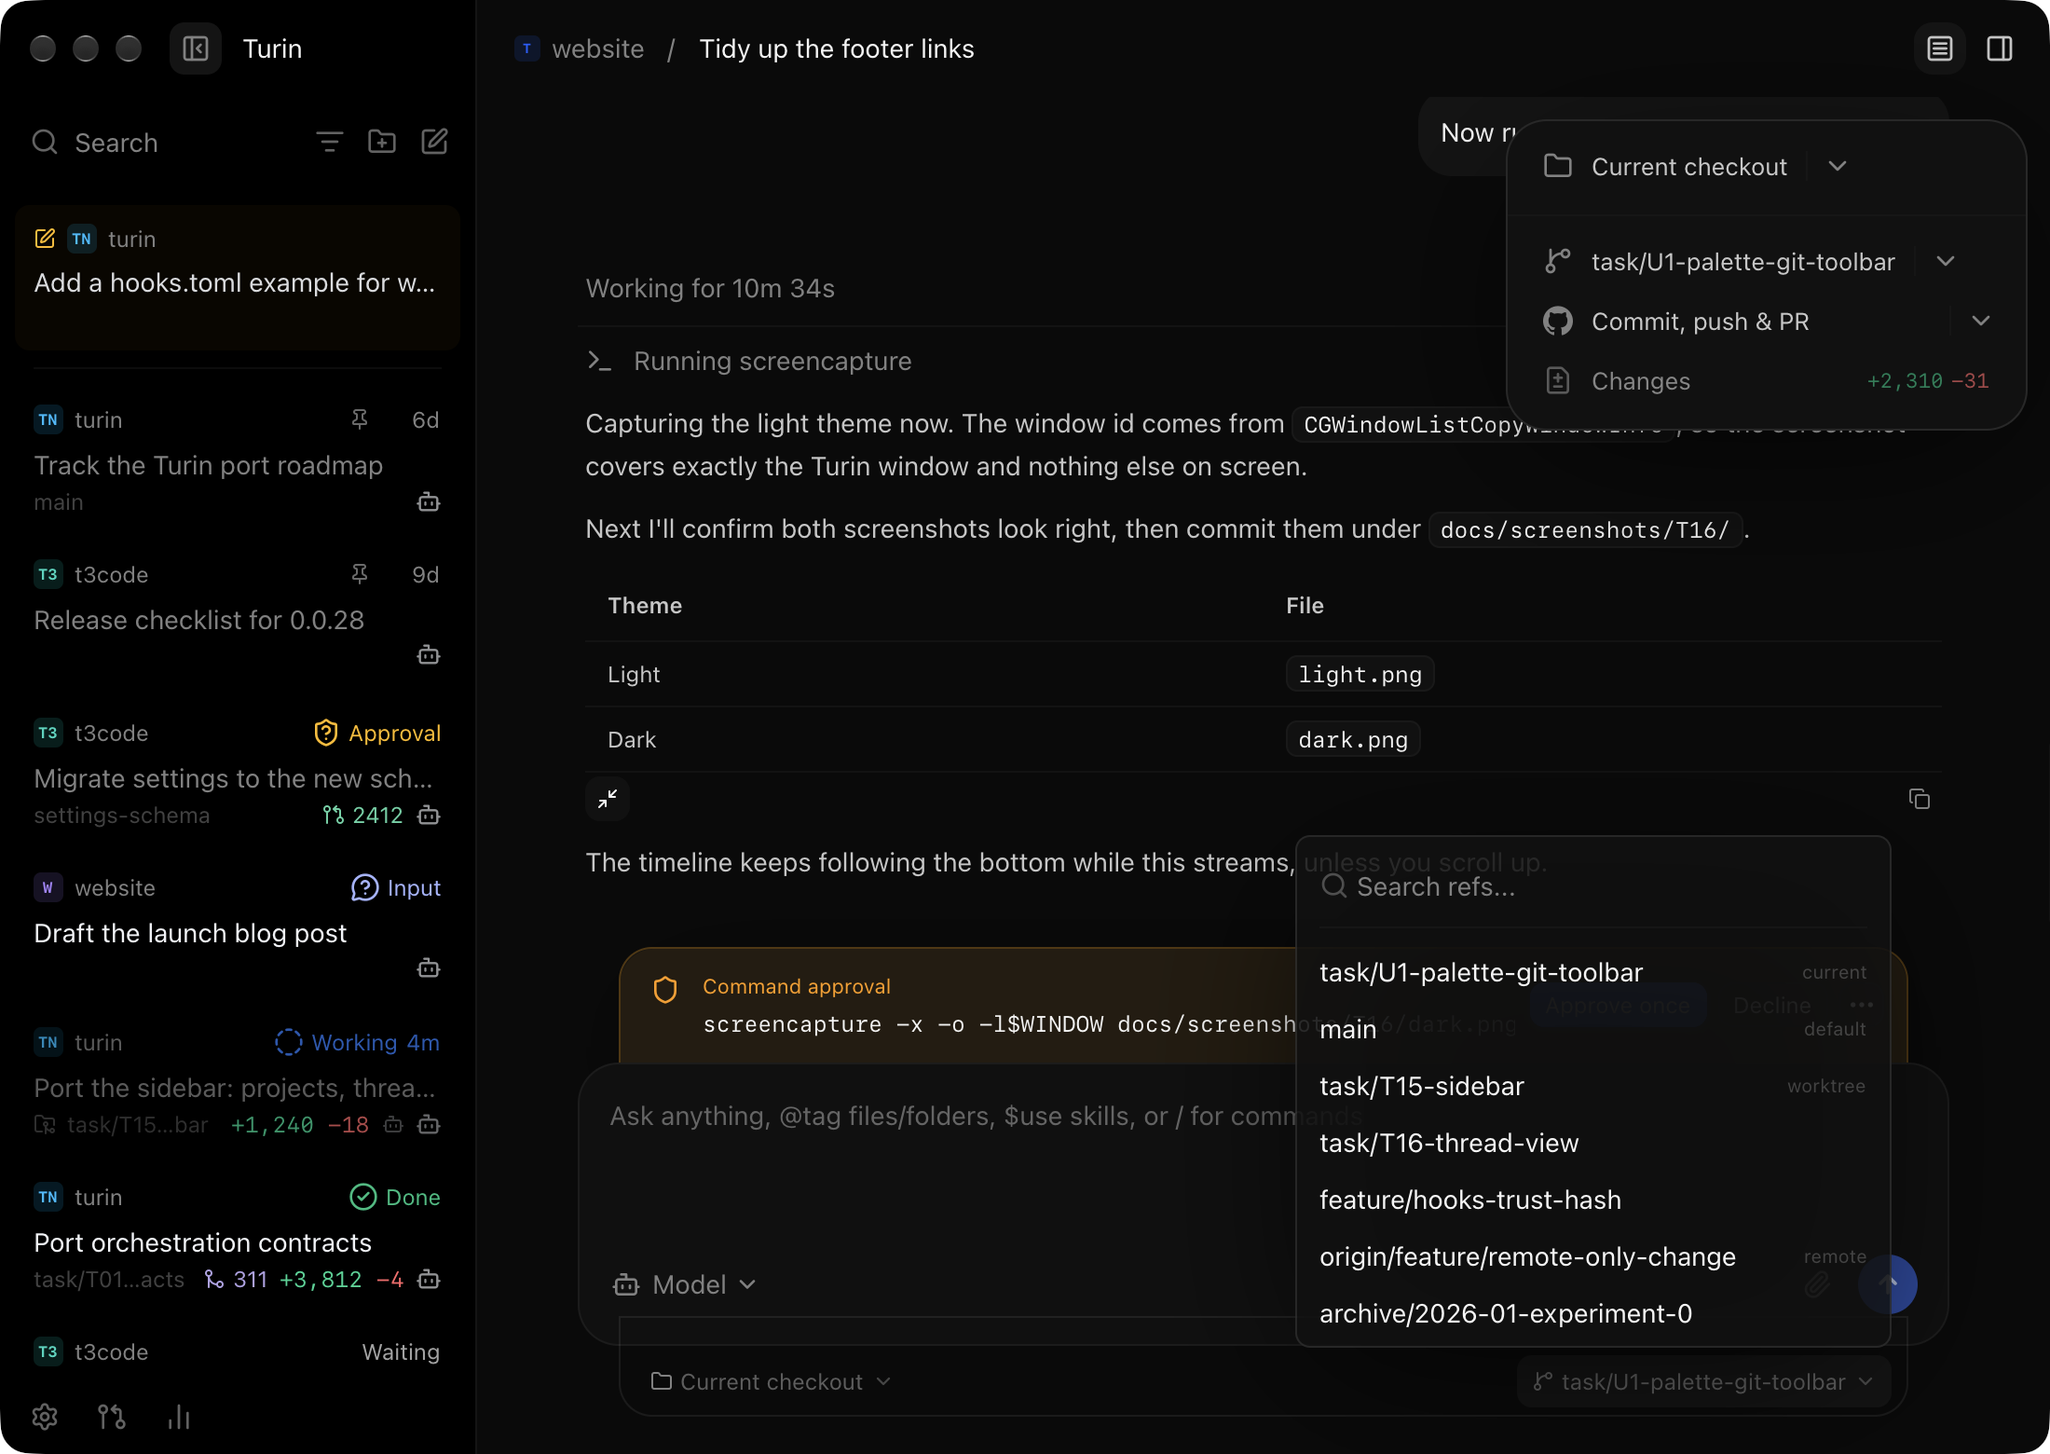
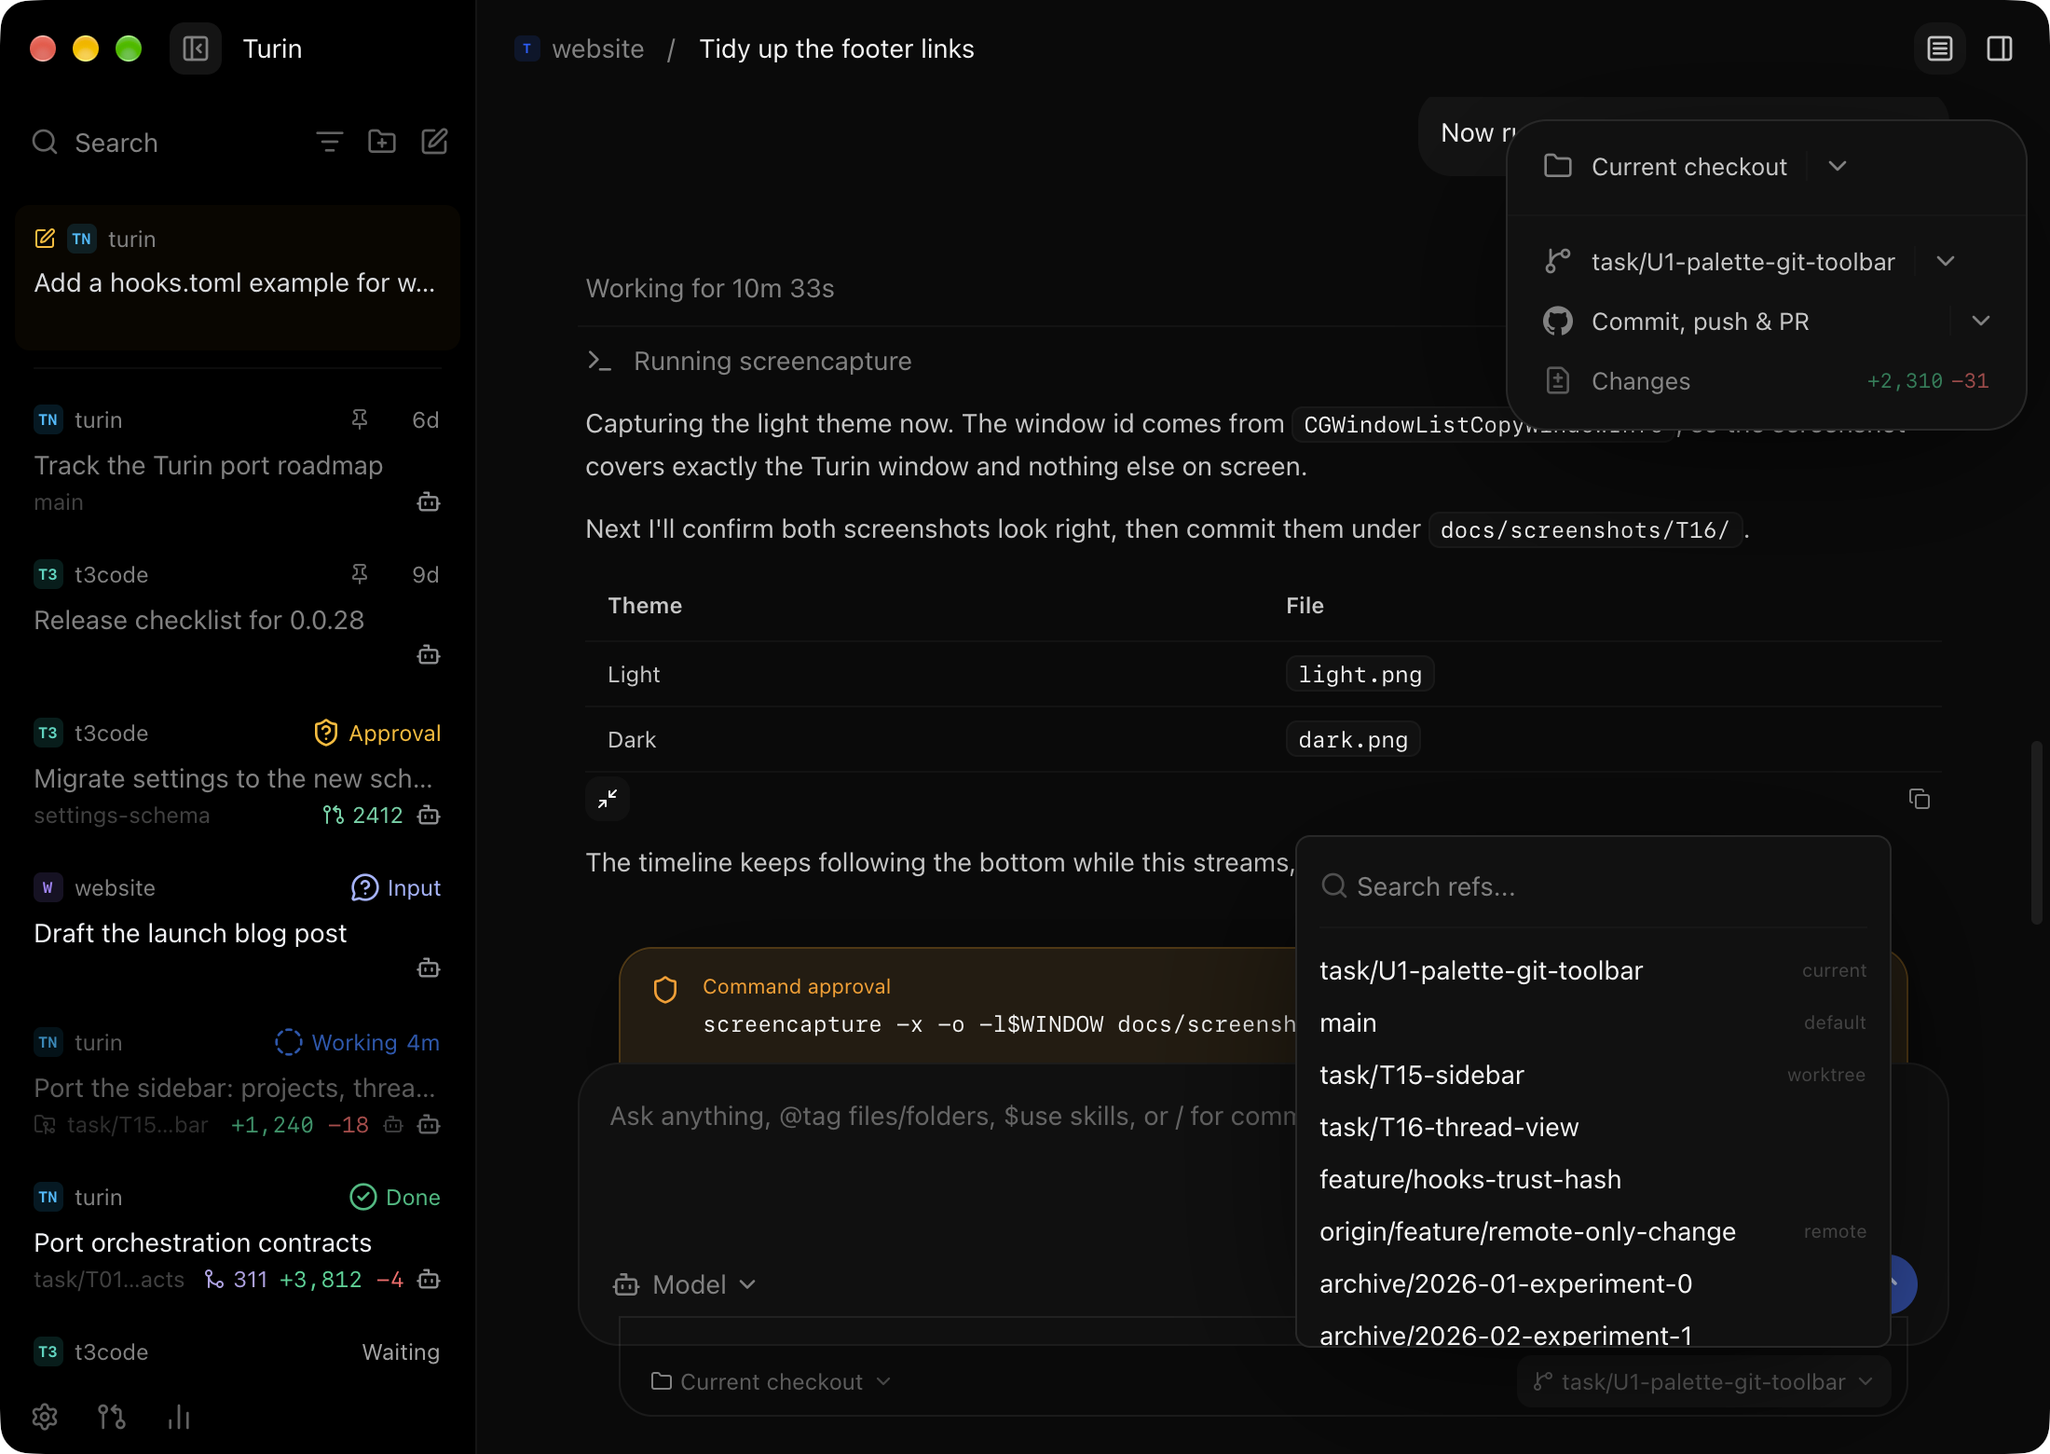
fix(app): opaque popovers, branch row alignment; add U1 screenshots, handoff, deviations
Model: claude-sonnet-5-5 (claudeAgent)

diff --git a/crates/app/src/components/branch_toolbar/branch_selector.rs b/crates/app/src/components/branch_toolbar/branch_selector.rs
@@ -55,7 +55,7 @@ use crate::theme::tokens::{self, RADIUS_SM, TEXT_3XS, TEXT_SM, TEXT_XS};
 use crate::theme::{ActiveAppTheme, AppTheme};
 use crate::ui::icon::{Icon, IconName};
 use crate::ui::middle_truncate::MiddleTruncate;
-use crate::ui::tooltip::{Tooltip, dropdown_glass_background, dropdown_glass_border};
+use crate::ui::tooltip::{Tooltip, dropdown_glass_border};
 
 #[derive(Clone, Copy, Debug, Default, PartialEq, Eq)]
 pub enum BranchDisplayMode {
@@ -737,6 +737,7 @@ impl BranchToolbarBranchSelector {
             .px_2()
             .py_1()
             .text_size(TEXT_SM.size)
+            .line_height(TEXT_SM.line_height)
             .cursor(CursorStyle::PointingHand)
             .when(highlighted, move |this| {
                 this.bg(accent).text_color(accent_foreground)
@@ -836,6 +837,7 @@ impl BranchToolbarBranchSelector {
                         div()
                             .flex_shrink_0()
                             .text_size(TEXT_3XS.size)
+                            .line_height(TEXT_3XS.line_height)
                             .text_color(with_alpha(theme.muted_foreground, 0.45))
                             .child(badge)
                     }))
@@ -924,7 +926,7 @@ impl BranchToolbarBranchSelector {
             .rounded_lg()
             .border_1()
             .border_color(dropdown_glass_border(&theme))
-            .bg(dropdown_glass_background(&theme))
+            .bg(theme.popover)
             .shadow(tokens::shadow_popover(theme.is_dark()))
             .text_color(theme.popover_foreground)
             .overflow_hidden()

diff --git a/crates/app/src/components/git_actions_control/view.rs b/crates/app/src/components/git_actions_control/view.rs
@@ -30,7 +30,7 @@ use crate::theme::tokens::{self, RADIUS_SM, TEXT_2XS, TEXT_SM, TEXT_XS};
 use crate::theme::{ActiveAppTheme, AppTheme};
 use crate::timestamp_format::now_ms;
 use crate::ui::icon::{Icon, IconName};
-use crate::ui::tooltip::{Tooltip, dropdown_glass_background, dropdown_glass_border};
+use crate::ui::tooltip::{Tooltip, dropdown_glass_border};
 use crate::ui::{Button, ButtonSize, ButtonVariant};
 
 fn quick_action_icon(quick: &GitQuickAction) -> IconName {
@@ -275,7 +275,7 @@ impl GitActionsControl {
             .rounded_lg()
             .border_1()
             .border_color(dropdown_glass_border(&theme))
-            .bg(dropdown_glass_background(&theme))
+            .bg(theme.popover)
             .shadow(tokens::shadow_popover(theme.is_dark()))
             .text_color(theme.popover_foreground)
             .children(rows)

diff --git a/crates/app/src/components/branch_toolbar.rs b/crates/app/src/components/branch_toolbar.rs
@@ -60,7 +60,7 @@ use crate::theme::tokens::{self, RADIUS_SM, TEXT_SM, TEXT_XS};
 use crate::theme::{ActiveAppTheme, AppTheme};
 use crate::ui::icon::{Icon, IconName};
 use crate::ui::middle_truncate::MiddleTruncate;
-use crate::ui::tooltip::{Tooltip, dropdown_glass_background, dropdown_glass_border};
+use crate::ui::tooltip::{Tooltip, dropdown_glass_border};
 
 #[derive(Clone, Copy, Debug, Default, PartialEq, Eq)]
 pub enum BranchToolbarLayout {
@@ -448,7 +448,7 @@ impl BranchToolbar {
             .rounded_lg()
             .border_1()
             .border_color(dropdown_glass_border(&theme))
-            .bg(dropdown_glass_background(&theme))
+            .bg(theme.popover)
             .shadow(tokens::shadow_popover(theme.is_dark()))
             .text_color(theme.popover_foreground)
             .child(

diff --git a/PORTING.md b/PORTING.md
@@ -759,3 +759,26 @@ Each helper has one copy in `crates/app/src/state`. Its `turin-shared` counterpa
 | `packages/shared/src/changeRequestUrl.ts` path scan | `/pull(s)?/<digits>` search over the lowercased path | `pull_route_matches` compares bytes in place, ASCII case-insensitive | Quadratic allocation on long owner or repo segments (QC wf_a9f9ab79 item 7). |
 | `packages/shared/src/js_string.rs` `locale_compare` accents | Not applicable (ICU) | Accent marks are kept as a list per base character and compared lexicographically | The folded integer overflowed after four marks (QC wf_a9f9ab79 item 8). |
 | `packages/shared/src/markdown_links.rs` `char_at` | Not applicable | Uses `str::get`, so a byte index inside a multibyte character reads as no character | Hardening. No reachable panic was found in the current callers, so no panic is claimed (QC wf_a9f9ab79, "not covered" note). |
+| `CommandPalette.logic.ts` items | `ReactNode` icons/titles/descriptions, `run: () => Promise<void>` closures, `runThread`/`runProject`/`browseTo`/`browseUp` callbacks | Data-only `CommandPaletteItem`: `PaletteIcon`, `PaletteTitle`, `PaletteDescription`, `PaletteAddon` and a `PaletteAction` the palette executes. Builders take `now_ms` (`formatRelativeTimeLabel` reads the clock) and the thread builder is generic over a `PaletteThread` trait | Items stay `Clone + PartialEq`, so the logic is tested without a window. The upstream tests become action assertions (`items[0].run() == OpenThread{…}`). |
+| `CommandPalette.tsx` commands | Copy prompt link(s), clone sources (URL / provider repository), WSL folder, environment pickers, publish-on-create toggle with host picker, `useScratchProject` environment choice, `ProjectFilePicker` / `ProjectContentSearchDialog` bodies | Not built. Add project offers "Local folder" (and "New project" when the machine has a projects root); New project is the name step with its preview and "Add existing project"; "Go to file" / "Search project contents" toggle the overlay mode and show a placeholder body | Project clone, remote environments and WSL are cut; prompt links (TASKS N10) are undecided; the file picker and content search are separate surfaces (N11). The overlay-mode reducer is ported in full. |
+| `CommandPalette.tsx` open/close | Base UI `CommandDialog` (portal, focus trap, `inert` background, blur) | An overlay layer in `AppSidebarLayout` (`dialog-backdrop` fill, `dialog-glass` popup at 94% instead of 80%, `rounded-2xl`, `max-w-xl`, `max-h-105`, top at 10vh); keys are handled in the capture phase on the overlay (arrows, Enter, Backspace on empty submenu, Esc, ⌘1–9 jump, ⇧⌘C, ⌘F) | GPUI has no backdrop blur, so an 80% fill lets the app text behind it fight the palette's. Capture-phase handling beats the input's own bindings. |
+| `CommandPaletteResults.tsx` | LegendList virtualization with estimated 40px rows and scroll fades | `ListState` (virtual) in a panel sized from estimated row heights (heading 28px, row 32/48px) up to the dialog's max height; no scroll fade masks | Matches the DOM's `max-h-105` result; GPUI has no alpha masks. |
+| `CommandPaletteContent.tsx` footer | `CommandFooterAction` "Open in <Finder>" via `window.desktopBridge` | Native folder picker through `prompt_for_paths` (label "Open in Finder") | No Electron bridge; GPUI exposes the OS picker. |
+| `lib/utils.ts` `normalizeSearchText` | NFKD + `\p{M}` strip + lowercase | `utils::normalize_search_text` (NFKD, `is_combining_mark`, `to_lowercase`) | The sidebar's copy skips mark stripping; the palette test requires it. |
+| `ThreadCommandSubtitle.tsx` harness glyph | `ProviderInstanceIcon` (brand artwork per driver, ACP registry icons) | A generic bot glyph at `size-3 opacity-70` | Brand artwork belongs to the composer (T17); swap when it lands. |
+| `CommandBlock.tsx` | `MorphIcon` copy/check morph | Plain icon swap for 1.5s | No icon morph in GPUI. Only the onboarding wizard (cut browser surface excluded) uses it. |
+| `GitActionsControl.tsx` scopes | `AuthSourceControlWriteScope` / `AuthOrchestrationOperateScope` gates on every action; `GitActionsControl.test.ts` permission cases | No gates (one process, no sessions). The behaviour tests that survive (branch sync after a feature-branch commit, drafts, ordinary commits) are in `lifecycle/tests.rs` | Auth is on the cut list. |
+| `GitActionsControl.lifecycle.test.ts` | Mounted component with mocked hooks, retained toast actions | Pure planning/settlement in `lifecycle.rs`: the toast's run action carries the `GitActionTarget` it was produced for; the panel button plans against the current props | Same guarantees, testable without a renderer. |
+| `GitActionsControl.tsx` presentation | `presentation="menu"` (touch items), toolbar `displayMode` with outline buttons and `@3xl/header-actions` labels | Panel display only (upstream mounts only the panel); `GitDisplayMode::Toolbar` renders the same split group | The menu presentation is for mobile; the toolbar mode has no caller. |
+| `GitActionsControl.tsx` publish wizard | Provider cards for every host, `WizardPopup` | One GitHub card, "Setup Required" when `gh` is not ready; steps rendered inline (numbered header, no animated height) | Every other source-control host is cut. |
+| `GitActionsControl.tsx` `StartTruncatedPath` | `direction: rtl` start ellipsis | Cut by length (52 chars) with a leading `…` | No bidi trick in GPUI. |
+| `GitActionsControl.tsx` window focus refresh | `focus` / `visibilitychange` listeners debounced 250ms | The chevron menu refreshes status when it opens; the host owns focus refresh | Window focus events belong to the app shell (T22). |
+| `GitActionsControl.tsx` `GitActionProgressButtonContent` | CSS grid with an animated output row | Flex rows; the output line shows or hides without the height transition; the spinner is gpui-component's | Motion restraint; no `grid-template-rows` transitions. |
+| `ThreadDetailsCard.tsx` / `ThreadDetailsPanel.tsx` | Measured density (`full`/`compact`/`essential`), canvas-aware placement, popover presentation, OpenIn / scripts / automations / relationships sections | `chat_git_host.rs` places the card top right (12px gaps, 280px) with the workspace and version-control sections only; opened by the titlebar toggle / ⇧⌘B | Those pieces belong to T16/T17. The opaque card replaces `dropdown-glass`. |
+| `BranchToolbar.tsx` | `useLabelsOverflow` (DOM measurement + FLIP label animation), `@3xl/composer-surface` layout switch, right-click "Copy full path" native menu | The host passes `compact_labels`; the narrow layout is the only one (the composer lane is 46rem, below 48rem); labels swap instantly | DOM measurement and CSS container queries have no GPUI counterpart. |
+| `BranchToolbarEnvironmentSelector.tsx`, `EnvironmentMachineIcon.tsx` | Select of connected machines, Auto balance, Linux/WSL mark | Locked indicator only, shown when the active environment is not primary (never, with one machine); Linux uses the generic computer glyph; Mac mini / Studio are brand SVGs | Remote environments are cut. |
+| `BranchToolbarEnvModeSelector.tsx` | Select with Current checkout / New worktree / Previous worktree | Menu with the same three entries (`RunContextSelector`'s Workspace group); choosing New worktree only sets the draft's env mode | Launching into a new worktree is replaced by hooks (cut list); the logic and tests are ported in full. |
+| `BranchToolbarBranchSelector.tsx` / `BranchPicker.tsx` | Base UI combobox with LegendList, `useOptimistic`, native context menu | Popover with a search input and a scroll list; paging triggered from wheel events through `should_load_next_branch_page_after_scroll`; the optimistic ref is an explicit field; right-click copies the ref name | No combobox primitive; keeps the same item rules (`shouldIncludeBranchPickerItem`, synthetic create / checkout-PR rows, base-ref default for new worktrees). |
+| `BranchToolbar.panel.test.tsx` | Machine choices stay usable when the workspace row is locked | Not ported | Machine choices are cut with remote environments. |
+| `pullRequestReference.ts` | Every host's `checkoutCommandArgument` / `isChangeRequestReference` | Same loop over `SOURCE_CONTROL_CLIENTS` (GitHub only); the Azure DevOps and GitLab cases of its test are dropped | Other hosts are cut. |
+| `state/paginatedBranches.ts` | `isPaginatedBranchesNextPagePending` over Effect `AsyncResult`s | Not ported; `RefPage::is_fetching_next_page` carries the flag; `shouldLoadNextBranchPageAfterScroll` and its tests are ported | No `AsyncResult` in Turin. |

diff --git a/docs/handoff/U1.md b/docs/handoff/U1.md
@@ -1,0 +1,36 @@
+# U1 handoff — command palette, git actions control, branch toolbar
+
+Branch `task/U1-palette-git-toolbar` (from `main`). All work is under `crates/app/src`.
+Env: `export PATH=$HOME/.cargo/bin:$PATH DEVELOPER_DIR=/Applications/Xcode.app/Contents/Developer`.
+
+## What is here
+| upstream | Rust |
+|---|---|
+| `CommandPalette.logic.ts` (+test) | `components/command_palette/command_palette_logic.rs` (+ `command_palette_logic/tests.rs`) |
+| `CommandPalette.tsx` | `components/command_palette.rs` (state, keyboard, execution), `palette_items.rs` (item lists), `command_palette_content.rs` (dialog chrome), `palette_source.rs` (the T14/T22 seam), `mock_source.rs`, `theme_actions.rs`, `shortcut_labels.rs`, `demo.rs` |
+| `CommandPaletteResults.tsx`, `CommandPaletteContent.tsx`, `ui/command.tsx` | `command_palette_results.rs`, `command_palette_content.rs`, `ui/command.rs` |
+| `ThreadCommandSubtitle.tsx`, `CommandBlock.tsx`, `ui/middle-truncate.tsx` | `components/thread_command_subtitle.rs`, `components/command_block.rs`, `ui/middle_truncate.rs` |
+| `GitActionsControl.tsx` (+ `.lifecycle`) | `components/git_actions_control.rs` (+ `view.rs`, `commit_dialog.rs`, `default_branch_dialog.rs`, `publish_dialog.rs`, `lifecycle.rs`, `backend.rs`, `mock_source.rs`). Pure logic is `turin-review`'s `action_state` (not re-ported) |
+| `BranchToolbar*.tsx`, `BranchPicker.tsx`, `BranchToolbar.logic.ts` (+test) | `components/branch_toolbar.rs` (+ `branch_selector.rs`, `env_selectors.rs`, `composer_control.rs`, `branch_toolbar_logic.rs`, `paginated_branches.rs`, `backend.rs`, `mock_source.rs`) |
+| `ThreadDetailsControl.tsx`, `threadDetailsPanelStyles.ts`, card host | `components/chat/thread_details_control.rs`, `components/chat/chat_git_host.rs` |
+| `pullRequestReference.ts`, `lib/utils.ts` `normalizeSearchText` | `pull_request_reference.rs`, `utils.rs` |
+
+Mounted in `components/app_sidebar_layout.rs`: ⌘K / ⌘P / ⇧⌘F / ⌥⌘A / ⌥⇧⌘A bind in the `AppShell` context, the palette is the last child; ⇧⌘B (and the titlebar toggle) opens the thread details card in `ChatView`; the branch toolbar strip hangs under `ComposerSurface`.
+
+## Seams for T22 / T14
+- `PaletteBackend` (`palette_source.rs`): snapshot (sidebar snapshot + context flags), message search, settings search, folder browse, add/create project, restart session. Palette emits `CommandPaletteEvent` for navigation; the shell currently maps most of them to "not available yet" toasts.
+- `GitActionsBackend` (`git_actions_control/backend.rs`) and `BranchBackend` (`branch_toolbar/backend.rs`): status, action state, stacked action, pull, init, publish, refs, switch/create ref, thread metadata. `GitActionsControl` emits `GitActionsControlEvent`, `BranchToolbar` emits `BranchToolbarEvent` (draft context / env mode / branch override changes) — the composer (T17) owns the draft store that should consume them; `ChatGitHost` keeps that state locally until then.
+- Settings search (`search_settings`), keybinding labels (defaults only, `shortcut_labels.rs`), custom/environment themes and light/dark halves belong to T20.
+
+## Demo hooks (screenshots)
+`TURIN_PALETTE=open;query:turin;down:2;…` (see `command_palette/demo.rs`), `TURIN_GIT_UI=menu|commit|publish|default-ref|branch-picker|workspace-menu|run`,
+`TURIN_GIT_SCENARIO=dirty|ahead|clean|behind|no-remote|not-repo|default-ref|pr-open|detached|running`, `TURIN_THREAD_DETAILS=1`, `TURIN_SIDEBAR_ROUTE=<thread id>`.
+Screenshots: `docs/screenshots/U1/`.
+
+## Known gaps
+- File picker (⌘P) and content search (⇧⌘F) overlays show placeholders (N11 / file picker).
+- Prompt-link commands omitted (TASKS N10 undecided). Provider harness glyph is generic until T17's `ProviderInstanceIcon`.
+- Thread details card has no density folding, OpenIn/scripts/automations/relationships sections (T16).
+- `BranchToolbar` has no composer-controls host slot and no measured label collapse (`compact_labels` is a prop).
+- `apply_worktree_base_default` (the draft's automatic base ref) is ported but not called: no draft store yet.
+- Palette highlight scroll-into-view for long lists uses `ListState::scroll_to_reveal_item`; not exercised past ~40 rows.
